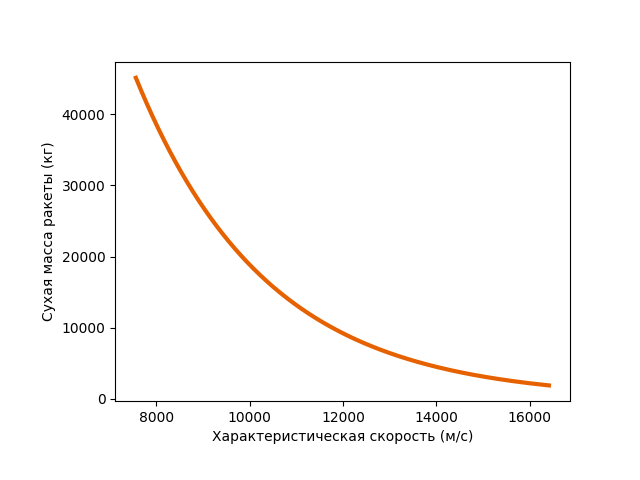
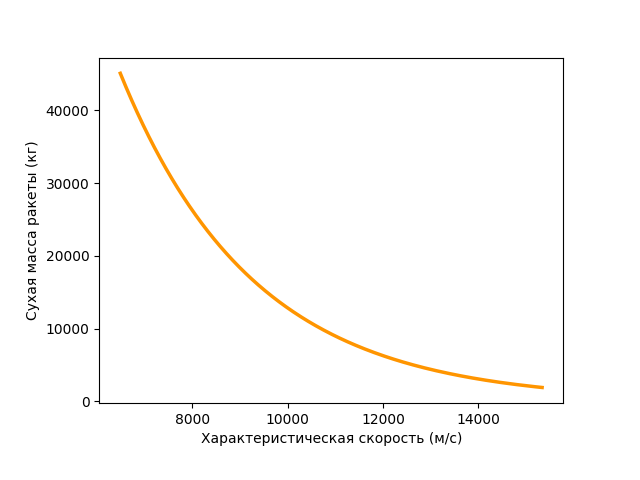
правки :(

Changed region(s): [[0.0625, 0.1562, 0.9062, 0.9375], [0.0312, 0.3125, 0.1875, 0.7188], [0.875, 0.125, 0.9062, 0.1562]]

diff --git a/calculations/graphic.py b/calculations/graphic.py
@@ -2,7 +2,7 @@ import matplotlib.pyplot as plt
 import math
 
 w = 2796  # скорость истечения несимметричного диметилгидразина из сопла двигателя
-m0 = 673762  # масса ракеты
+m0 = 458900  # масса ракеты
 dry_m0 = 45100  # начальная сухая масса
 dry_m_final = 1880  # конечная сухая масса
 
